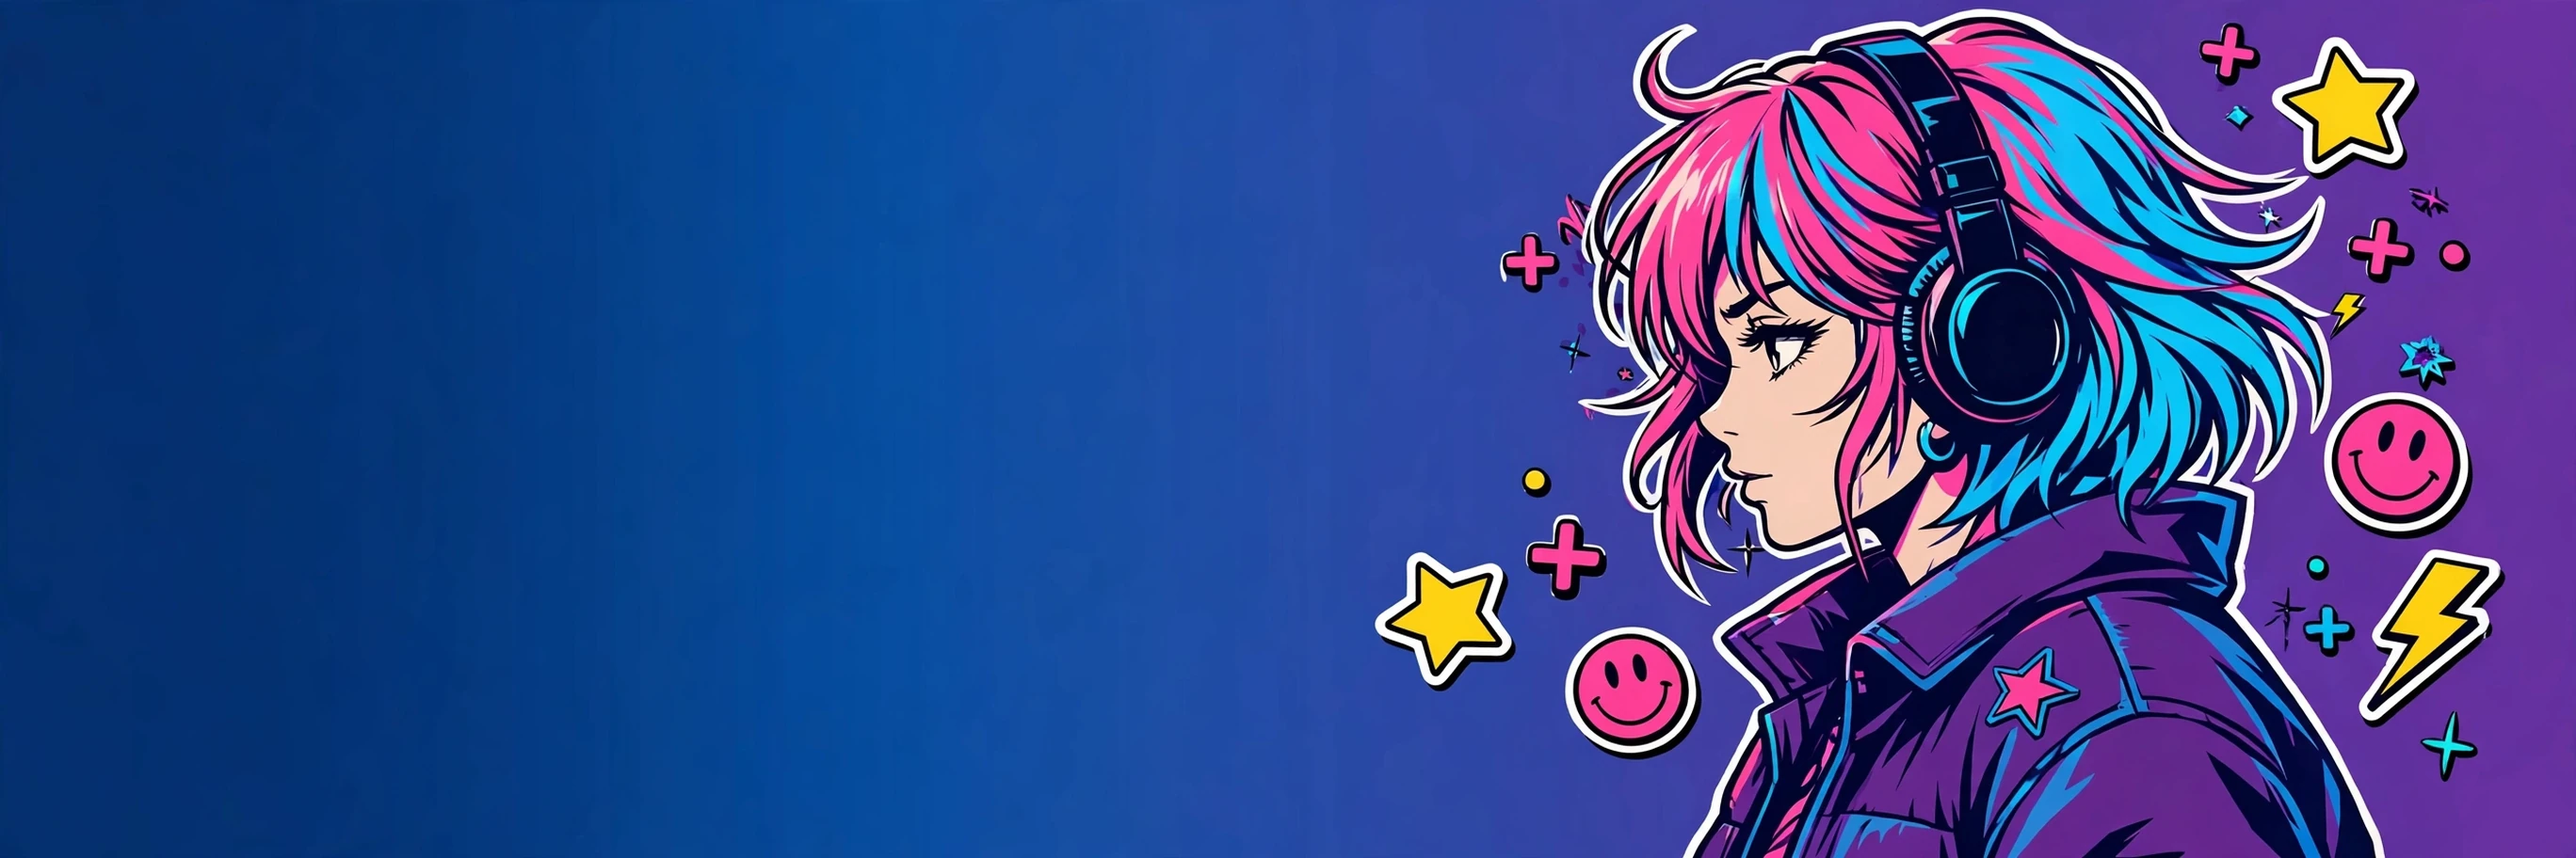
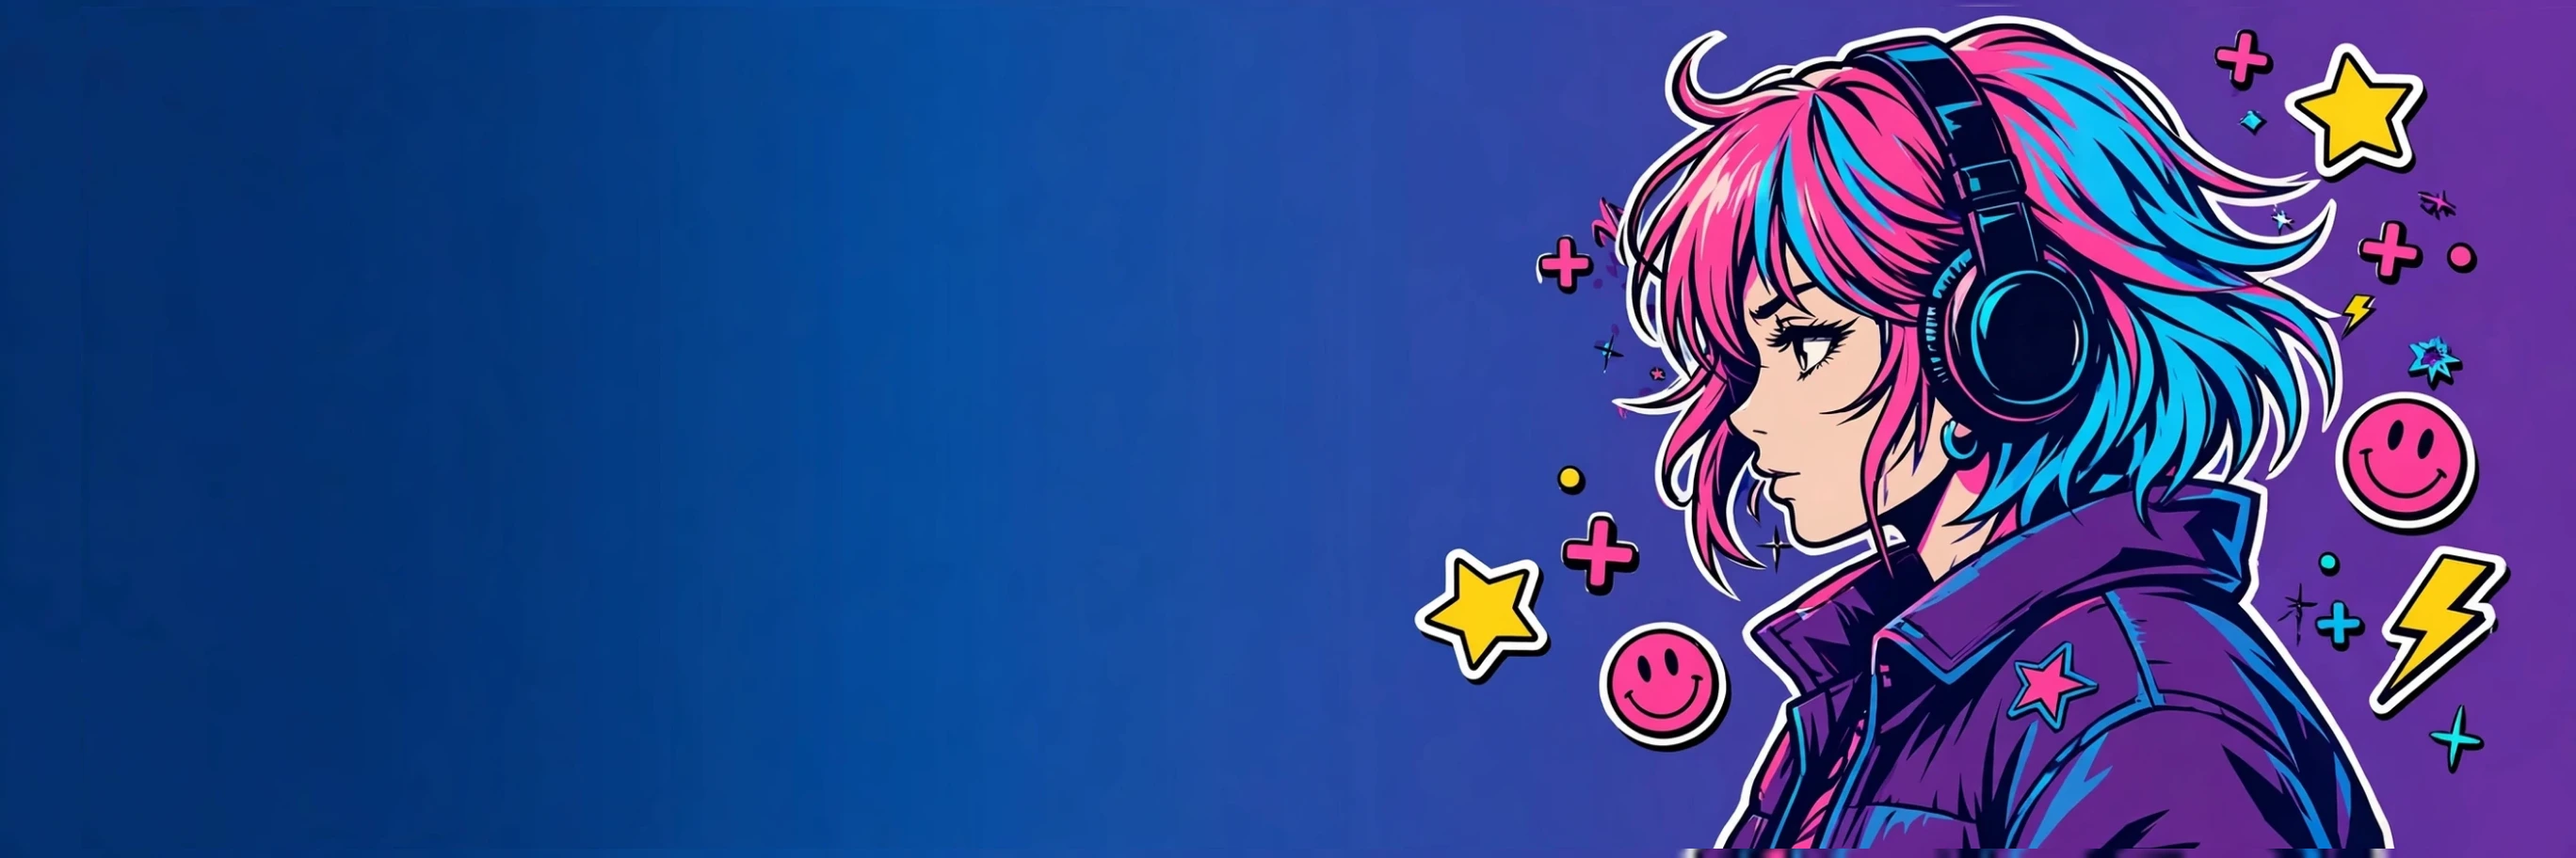
fix(home): 双图特征配准对位，点阵密度连续、淡化去割裂，并撤销横幅钉顶恢复流内滚动

Changed region(s): [[0.5281, 0.0, 0.9942, 1.0]]

diff --git a/src/services/player/spectrum.ts b/src/services/player/spectrum.ts
@@ -306,10 +306,15 @@ export function createSpectrum(
         const py = (row + 0.5) * pitch
         const v = v0 + (py / height) * (v1 - v0)
         const field = sampleHalftoneField(u, v)
-        if (field < 0.04) continue
-        const baseRadius = pitch * 0.46 * Math.sqrt(field)
-        // 能量在剖面基准上放大点径；剖面为零处再有能量也不冒点，场的形状不被频谱改写。
-        const radius = Math.min(pitch * 0.48, baseRadius * (0.55 + 0.95 * energy))
+        // 剖面权重再强化：强度先过 1.6 次幂，稀疏区（低强度格）即使在 live 也压到近乎
+        // 不可见，点田的密度印象完全由采样剖面主导——播放帧与未播时底图的烤入场看上去
+        // 是同一片田活过来，而不是另罩一张均匀机械网格。能量只在权重之上调制点径的
+        // 呼吸幅度与节奏，不决定哪里有点、点有多密。
+        const weight = Math.pow(field, 1.6)
+        if (weight < 0.05) continue
+        const baseRadius = pitch * 0.46 * Math.sqrt(weight)
+        // 能量在剖面基准上小幅放大点径；剖面为零处再有能量也不冒点，场的形状不被频谱改写。
+        const radius = Math.min(pitch * 0.48, baseRadius * (0.72 + 0.55 * energy))
         if (radius < 0.5) continue
         let cr = 0
         let cg = 0
@@ -352,10 +357,9 @@ export function createSpectrum(
         cr = Math.round(cr)
         cg = Math.round(cg)
         cb = Math.round(cb)
-        const alpha = Math.min(
-          0.9,
-          0.15 + 0.55 * field + 0.5 * energy * (0.3 + 0.7 * field)
-        )
+        // alpha 同样由剖面权重主导且上限压低（0.9 → 0.62）：能量项乘着权重走，稀疏区
+        // 再强的能量也提不亮，整场不会比底图烤入点田更抢眼，切换瞬间不换图案感。
+        const alpha = Math.min(0.62, 0.05 + 0.5 * weight + 0.3 * energy * weight)
         paint.fillStyle = `rgba(${cr},${cg},${cb},${alpha.toFixed(3)})`
         paint.beginPath()
         paint.arc(px, py, radius, 0, Math.PI * 2)

diff --git a/src/pages/index/components/featured-banner.vue b/src/pages/index/components/featured-banner.vue
@@ -304,12 +304,9 @@ onBeforeUnmount(() => {
 }
 .main.compact .banner.home-topbar {
   height: var(--banner-compact-height);
-  /* 折叠后迷你条真钉顶：compact 时转 sticky 钉在滚动容器（.main）顶部，滚到任何深度都
-     常驻可见可点。钉位已实测标定：钉住时边框顶 = 容器上内边距 18px + top 值（margin-top
-     在钉住时不叠加），取 top 2px 时边框顶落在距容器顶 20px 处，与展开态静止位置
-     （18px 内边距 + 2px 上外边距）严丝合缝，不留怪缝。 */
-  position: sticky;
-  top: 2px;
+  /* 迷你条保持流内布局：随滚动先缩成迷你条、继续滚动就随页面滚走，不钉顶。曾试过
+     sticky 钉在滚动容器顶部，真机观感是迷你条浮在内容之上不好看，用户明确要求恢复
+     原来的流内滚动，不要再加回 position: sticky。 */
 }
 @container (max-width: 700px) {
   .banner.home-topbar {
@@ -343,10 +340,12 @@ onBeforeUnmount(() => {
   inset: 0;
 }
 /* 平滑无点图层：默认全透明只露底图原版；播放时淡入盖住底图，让点阵叠加层在干净底子
-   上绘制。交叉淡化约 320ms；关动效（banner-calm）或系统减动效时直接切换不淡化。 */
+   上绘制。平滑图已按特征配准到原图坐标（人物轮廓逐点对位），交叉淡化放慢到约 450ms
+   ease-in-out——这是两张图片之间的溶解、不是面板过渡，慢溶解才能把图面差异化开、不显
+   割裂；关动效（banner-calm）或系统减动效时直接切换不淡化。 */
 .home-topbar .banner-landscape.banner-landscape-smooth {
   opacity: 0;
-  transition: opacity 320ms ease;
+  transition: opacity 450ms ease-in-out;
 }
 .home-topbar .banner-landscape.banner-landscape-smooth.is-on {
   opacity: 1;
